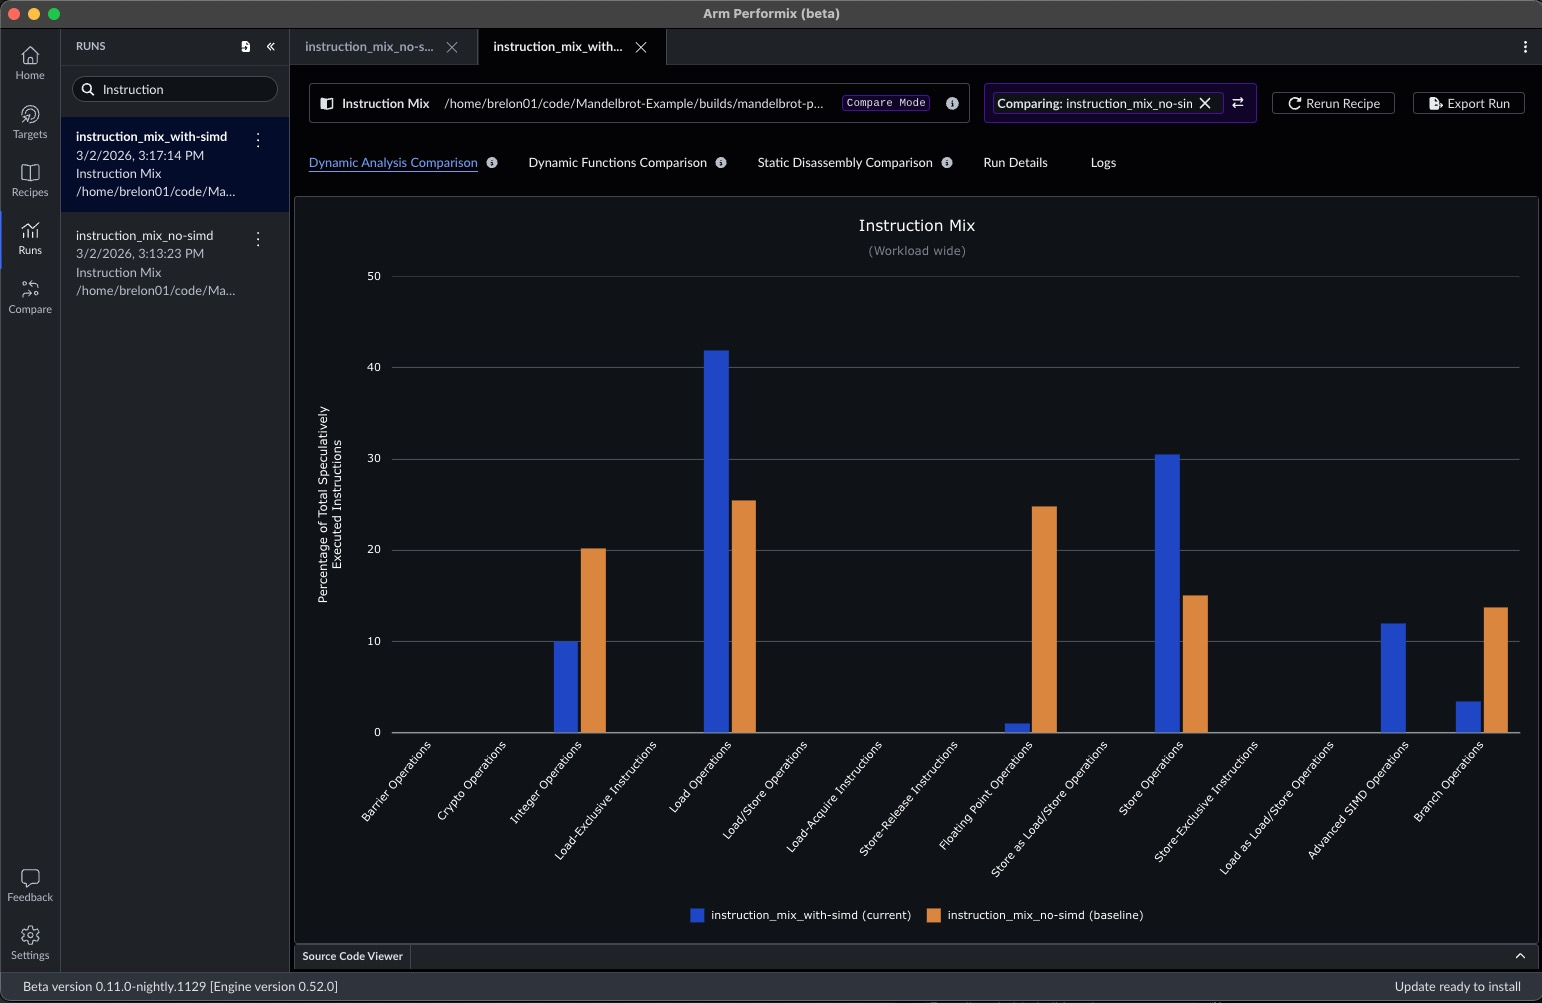
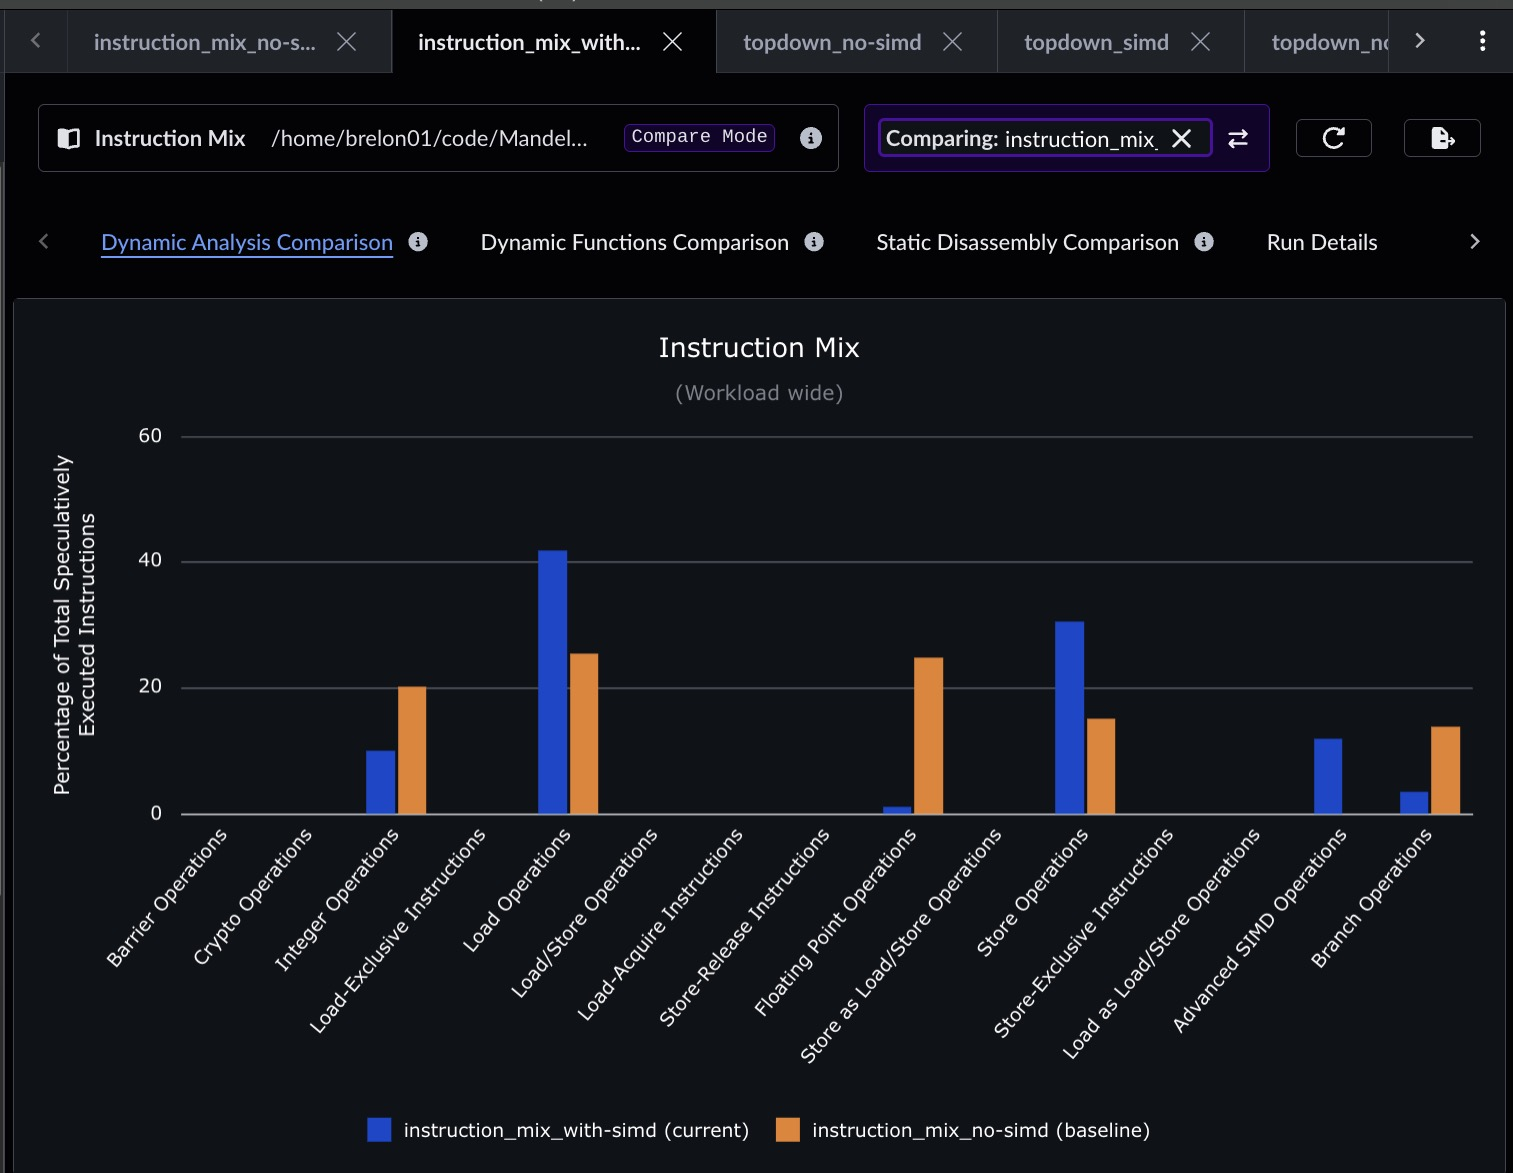
better zoom on screenshots

diff --git a/content/learning-paths/servers-and-cloud-computing/top-down-performix/3-instruction-mix.md b/content/learning-paths/servers-and-cloud-computing/top-down-performix/3-instruction-mix.md
@@ -31,13 +31,15 @@ Because you are running multiple experiments, give each run a meaningful nicknam
 ![rename-run.jpg](rename-run.jpg)
 
 Use the **Compare** feature at the top right of an entry in the **Runs** view to select another run of the same recipe for comparison.
+
 ![compare-with-box.jpg](compare-with-box.jpg)
+
 This selection box lets you choose any run of the same recipe type. The ⇄ arrows swap which run is treated as the baseline and which is current.
 
-After you select two runs, Performix overlays them so you can review category changes in one view.
+After you select two runs, Performix overlays them so you can review category changes in one view. In the new run, note that 
 
 ![instruction-mix-diff-results.jpg](instruction-mix-diff-results.jpg)
-
+Compared to the baseline, floating-point operations, branch operations, and some integer operations have been traded for loads, stores, and SIMD operations.
 Execution time also improves significantly, making this run nearly four times faster.
 
 ```bash { command_line="root@localhost | 2-6" }
